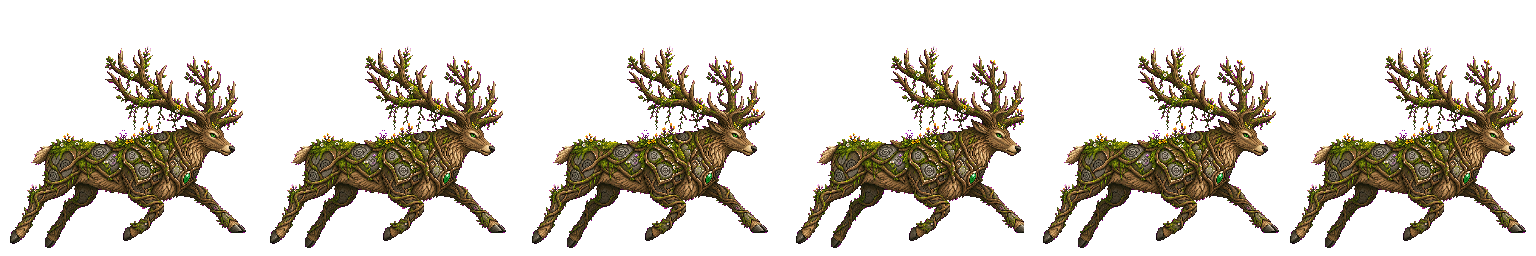
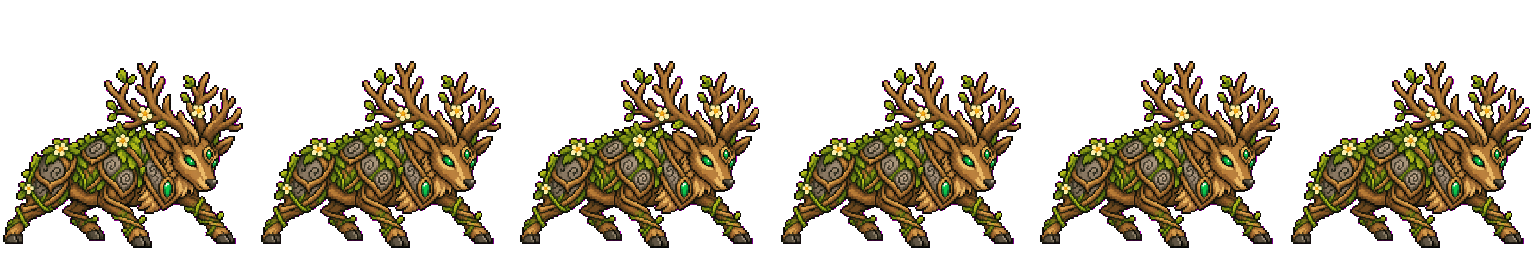
Redesign Deer King in cartoon field style

diff --git a/public/demo64/game-original.js b/public/demo64/game-original.js
@@ -170,10 +170,10 @@
     this.load.image('meadow-turtle-idle', A + 'creatures/campo/meadow_turtle/idle.png?v=1');
     this.load.spritesheet('meadow-turtle-walk', A + 'creatures/campo/meadow_turtle/walk.png?v=1', { frameWidth: 192, frameHeight: 192 });
     this.load.spritesheet('meadow-turtle-attack', A + 'creatures/campo/meadow_turtle/attack.png?v=1', { frameWidth: 192, frameHeight: 192 });
-    this.load.image('deer-king-idle', A + 'creatures/campo/deer_king/idle.png?v=1');
-    this.load.image('deer-king-enraged', A + 'creatures/campo/deer_king/enraged.png?v=1');
-    this.load.spritesheet('deer-king-walk', A + 'creatures/campo/deer_king/walk.png?v=2', { frameWidth: 256, frameHeight: 256 });
-    this.load.spritesheet('deer-king-charge', A + 'creatures/campo/deer_king/charge.png?v=1', { frameWidth: 256, frameHeight: 256 });
+    this.load.image('deer-king-idle', A + 'creatures/campo/deer_king/idle.png?v=cartoon1');
+    this.load.image('deer-king-enraged', A + 'creatures/campo/deer_king/enraged.png?v=cartoon1');
+    this.load.spritesheet('deer-king-walk', A + 'creatures/campo/deer_king/walk.png?v=cartoon1', { frameWidth: 256, frameHeight: 256 });
+    this.load.spritesheet('deer-king-charge', A + 'creatures/campo/deer_king/charge.png?v=cartoon1', { frameWidth: 256, frameHeight: 256 });
     for (const n of ['yeti', 'golem', 'wolf']) { // IA PixelLab: 92px, idle 1col / walk 6col, linhas n/w/s/e
       this.load.spritesheet('ai' + n + '-idle', A + 'creatures/neve/' + n + '/idle.png', { frameWidth: 92, frameHeight: 92 });
       this.load.spritesheet('ai' + n + '-walk', A + 'creatures/neve/' + n + '/walk.png', { frameWidth: 92, frameHeight: 92 });

diff --git a/public/demo64/game.js b/public/demo64/game.js
@@ -1,7 +1,7 @@
 /* GameRPG loader */
 (function () {
   const script = document.createElement('script');
-  script.src = './game-original.js?v=clean-hud-v1';
+  script.src = './game-original.js?v=deer-king-cartoon-v1';
   script.onerror = () => console.error('[GameRPG] Falha ao carregar o jogo principal.');
   document.head.appendChild(script);
 })();

diff --git a/public/demo64/index.html b/public/demo64/index.html
@@ -560,6 +560,6 @@ addEventListener('keydown', e => {
   sync();
 })();
 </script>
-<script src="game.js?v=clean-hud-v1"></script>
+<script src="game.js?v=deer-king-cartoon-v1"></script>
 </body>
 </html>
